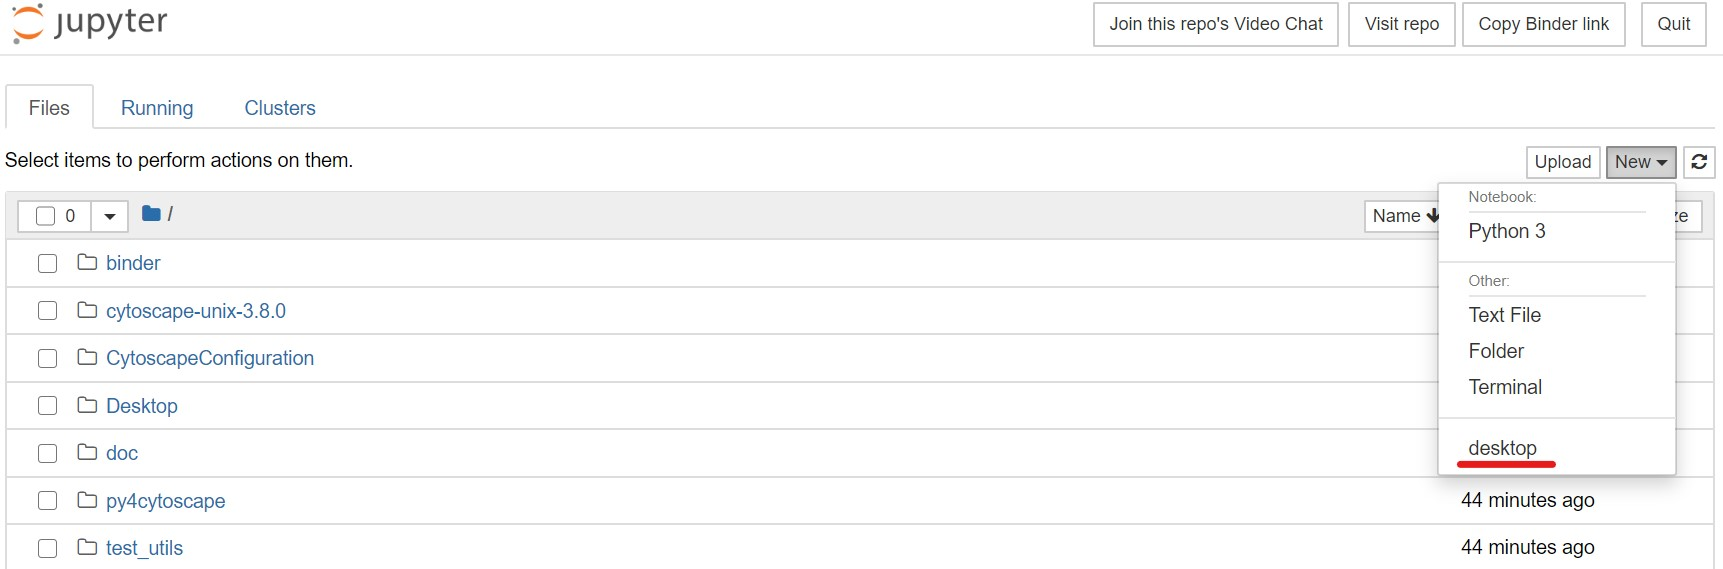
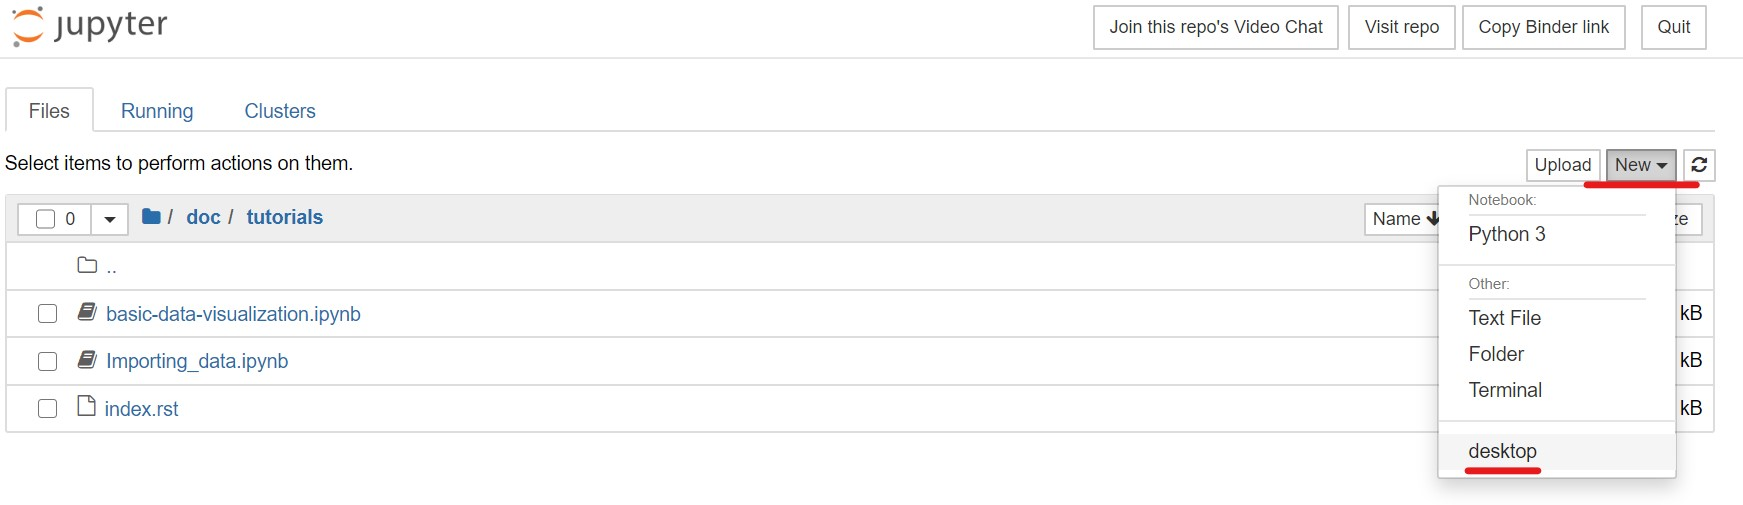
Update the path when users start Binder Jupyter

Changed region(s): [[0.0, 0.1485, 1.0, 0.9802], [0.6152, 0.0, 1.0, 0.1188], [0.0, 0.0, 0.0923, 0.0891]]

diff --git a/doc/tutorials/index.rst b/doc/tutorials/index.rst
@@ -8,7 +8,7 @@ You can try the following tutorials in your web browser using `Binder <https://m
 1. Launch a Binder instance by clicking the following Binder badge. (It may take some time for the instance to start up.)
 
 .. image:: https://mybinder.org/badge_logo.svg
-   :target: https://mybinder.org/v2/gh/bdemchak/py4cytoscape/master
+   :target: https://mybinder.org/v2/gh/bdemchak/py4cytoscape/master?filepath=doc%2Ftutorials
 
 2. Launch Linux desktop by clicking the ``New ▼`` button -> ``desktop``.
 
@@ -20,7 +20,7 @@ You can try the following tutorials in your web browser using `Binder <https://m
 
 .. image:: https://raw.githubusercontent.com/nrnb/gsod2019_kozo_nishida/master/images/binder_starting_cytoscape_inXFCE4.jpg
 
-4. Open an ipynb file under doc/tutorials folder
+4. Click on the ipynb file for the tutorial you would like to try. 
 
 .. image:: ../images/openTutorial.jpg
 
